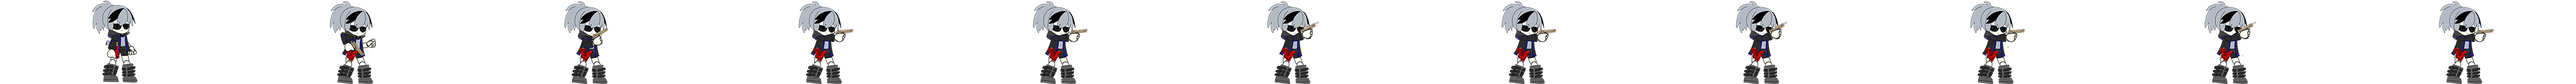
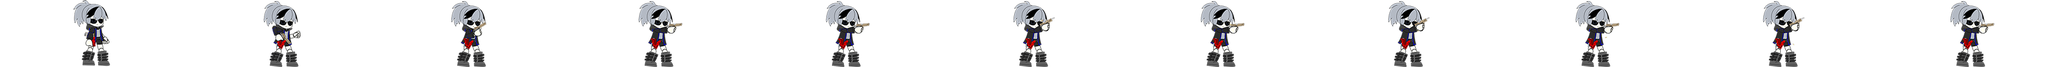
anm_finish

diff --git a/GAM200_TeamExodia_openGL/Game/Transform.h b/GAM200_TeamExodia_openGL/Game/Transform.h
@@ -40,7 +40,14 @@ class Transform_2 : public TransformUnit
 public:
     Transform_2(Math::vec2 position = Map::middle_point) : TransformUnit(10.0, 5.0, 0.8, 1.2, 4, position)
     {
-        AddGOComponent(new GAM200::Sprite("assets/tower_s2/animation/gunner_default.spt", (this)));
+        if (transformed == false)
+        {
+            AddGOComponent(new GAM200::Sprite("assets/tower_s2/animation/deform_default/deform_default.spt", (this)));
+        }
+        else
+        {
+            AddGOComponent(new GAM200::Sprite("assets/tower_s2/animation/deform/deform.spt", (this)));
+        }
         current_state = &state_none;
         current_state->Enter(this);
 
@@ -81,7 +88,14 @@ class Transform_4 : public TransformUnit
 public:
     Transform_4(Math::vec2 position = Map::middle_point) : TransformUnit(10.0, 5.0, 1.2, 1.5, 10, position)
     {
-        AddGOComponent(new GAM200::Sprite("assets/tower_s2/animation/gunner_default.spt", (this)));
+        if (transformed == false)
+        {
+            AddGOComponent(new GAM200::Sprite("assets/tower_s2/animation/deform_default/deform_default.spt", (this)));
+        }
+        else
+        {
+            AddGOComponent(new GAM200::Sprite("assets/tower_s2/animation/deform/deform.spt", (this)));
+        }
         current_state = &state_none;
         current_state->Enter(this);
 
@@ -122,7 +136,14 @@ class Transform_8 : public TransformUnit
 public:
     Transform_8(Math::vec2 position = Map::middle_point) : TransformUnit(10.0, 5.0, 1.2, 1.5, 30, position)
     {
-        AddGOComponent(new GAM200::Sprite("assets/tower_s2/animation/gunner_default.spt", (this)));
+        if (transformed == false)
+        {
+            AddGOComponent(new GAM200::Sprite("assets/tower_s2/animation/deform_default/deform_default.spt", (this)));
+        }
+        else
+        {
+            AddGOComponent(new GAM200::Sprite("assets/tower_s2/animation/deform/deform.spt", (this)));
+        }
         current_state = &state_none;
         current_state->Enter(this);
 
@@ -163,7 +184,14 @@ class Transform_16 : public TransformUnit
 public:
     Transform_16(Math::vec2 position = Map::middle_point) : TransformUnit(10.0, 5.0, 1.0, 1.4, 70, position)
     {
-        AddGOComponent(new GAM200::Sprite("assets/tower_s2/animation/gunner_default.spt", (this)));
+        if (transformed == false)
+        {
+            AddGOComponent(new GAM200::Sprite("assets/tower_s2/animation/deform_default/deform_default.spt", (this)));
+        }
+        else
+        {
+            AddGOComponent(new GAM200::Sprite("assets/tower_s2/animation/deform/deform.spt", (this)));
+        }
         current_state = &state_none;
         current_state->Enter(this);
 

diff --git a/GAM200_TeamExodia_openGL/Game/MeleeUnit.h b/GAM200_TeamExodia_openGL/Game/MeleeUnit.h
@@ -40,7 +40,7 @@ class Sword_1 : public MeleeUnit
 public:
     Sword_1(Math::vec2 position = Map::middle_point) : MeleeUnit(1.0, 5, position) 
     {
-        AddGOComponent(new GAM200::Sprite("assets/tower_s2/animation/gunner_default.spt", (this)));
+        AddGOComponent(new GAM200::Sprite("assets/tower_s2/animation/sword/sword_default.spt", (this)));
         current_state = &state_none;
         current_state->Enter(this);
 
@@ -82,7 +82,7 @@ class Sword_2 : public MeleeUnit
 public:
     Sword_2(Math::vec2 position = Map::middle_point) : MeleeUnit(1.0, 10, position)
     {
-        AddGOComponent(new GAM200::Sprite("assets/tower_s2/animation/gunner_default.spt", (this)));
+        AddGOComponent(new GAM200::Sprite("assets/tower_s2/animation/sword/sword_default.spt", (this)));
         current_state = &state_none;
         current_state->Enter(this);
 
@@ -124,7 +124,7 @@ class Sword_4 : public MeleeUnit
 public:
     Sword_4(Math::vec2 position = Map::middle_point) : MeleeUnit(1.0, 25, position)
     {
-        AddGOComponent(new GAM200::Sprite("assets/tower_s2/animation/gunner_default.spt", (this)));
+        AddGOComponent(new GAM200::Sprite("assets/tower_s2/animation/sword/sword_default.spt", (this)));
         current_state = &state_none;
         current_state->Enter(this);
 
@@ -166,7 +166,7 @@ class Sword_8 : public MeleeUnit
 public:
     Sword_8(Math::vec2 position = Map::middle_point) : MeleeUnit(0.8, 60, position)
     {
-        AddGOComponent(new GAM200::Sprite("assets/tower_s2/animation/gunner_default.spt", (this)));
+        AddGOComponent(new GAM200::Sprite("assets/tower_s2/animation/sword/sword_default.spt", (this)));
         current_state = &state_none;
         current_state->Enter(this);
 
@@ -208,7 +208,7 @@ class Sword_16 : public MeleeUnit
 public:
     Sword_16(Math::vec2 position = Map::middle_point) : MeleeUnit(0.7, 200, position)
     {
-        AddGOComponent(new GAM200::Sprite("assets/tower_s2/animation/gunner_default.spt", (this)));
+        AddGOComponent(new GAM200::Sprite("assets/tower_s2/animation/sword/sword_default.spt", (this)));
         current_state = &state_none;
         current_state->Enter(this);
 

diff --git a/GAM200_TeamExodia_openGL/Game/MagicUnit.h b/GAM200_TeamExodia_openGL/Game/MagicUnit.h
@@ -40,7 +40,7 @@ class Bomb_1 : public MagicUnit
 public:
     Bomb_1(Math::vec2 position = Map::middle_point) : MagicUnit(1.5, 4, position) 
     {
-        AddGOComponent(new GAM200::Sprite("assets/tower_s2/animation/gunner_default.spt", (this)));
+        AddGOComponent(new GAM200::Sprite("assets/tower_s2/animation/bomb/bomb_default.spt", (this)));
         current_state = &state_none;
         current_state->Enter(this);
 
@@ -82,7 +82,7 @@ class Bomb_2 : public MagicUnit
 public:
     Bomb_2(Math::vec2 position = Map::middle_point) : MagicUnit(1.0, 4, position)
     {
-        AddGOComponent(new GAM200::Sprite("assets/tower_s2/animation/gunner_default.spt", (this)));
+        AddGOComponent(new GAM200::Sprite("assets/tower_s2/animation/bomb/bomb_default.spt", (this)));
         current_state = &state_none;
         current_state->Enter(this);
 
@@ -124,7 +124,7 @@ class Bomb_4 : public MagicUnit
 public:
     Bomb_4(Math::vec2 position = Map::middle_point) : MagicUnit(1.5, 10, position)
     {
-        AddGOComponent(new GAM200::Sprite("assets/tower_s2/animation/gunner_default.spt", (this)));
+        AddGOComponent(new GAM200::Sprite("assets/tower_s2/animation/bomb/bomb_default.spt", (this)));
         current_state = &state_none;
         current_state->Enter(this);
 
@@ -166,7 +166,7 @@ class Bomb_8 : public MagicUnit
 public:
     Bomb_8(Math::vec2 position = Map::middle_point) : MagicUnit(1.0, 30, position)
     {
-        AddGOComponent(new GAM200::Sprite("assets/tower_s2/animation/gunner_default.spt", (this)));
+        AddGOComponent(new GAM200::Sprite("assets/tower_s2/animation/bomb/bomb_default.spt", (this)));
         current_state = &state_none;
         current_state->Enter(this);
 
@@ -208,7 +208,7 @@ class Bomb_16 : public MagicUnit
 public:
     Bomb_16(Math::vec2 position = Map::middle_point) : MagicUnit(0.8, 100, position)
     {
-        AddGOComponent(new GAM200::Sprite("assets/tower_s2/animation/gunner_default.spt", (this)));
+        AddGOComponent(new GAM200::Sprite("assets/tower_s2/animation/bomb/bomb_default.spt", (this)));
         current_state = &state_none;
         current_state->Enter(this);
 

diff --git a/GAM200_TeamExodia_openGL/Game/Sniper.h b/GAM200_TeamExodia_openGL/Game/Sniper.h
@@ -32,7 +32,7 @@ class Sniper_2 : public SniperUnit
 public:
     Sniper_2(Math::vec2 position = Map::middle_point) : SniperUnit(5.0, 50, position)
     {
-        AddGOComponent(new GAM200::Sprite("assets/tower_s2/animation/gunner_default.spt", (this)));
+        AddGOComponent(new GAM200::Sprite("assets/tower_s2/animation/sniper/sniper_default.spt", (this)));
         current_state = &state_none;
         current_state->Enter(this);
 
@@ -73,7 +73,7 @@ class Sniper_4 : public SniperUnit
 public:
     Sniper_4(Math::vec2 position = Map::middle_point) : SniperUnit(4.0, 50, position)
     {
-        AddGOComponent(new GAM200::Sprite("assets/tower_s2/animation/gunner_default.spt", (this)));
+        AddGOComponent(new GAM200::Sprite("assets/tower_s2/animation/sniper/sniper_default.spt", (this)));
         current_state = &state_none;
         current_state->Enter(this);
 
@@ -114,7 +114,7 @@ class Sniper_8 : public SniperUnit
 public:
     Sniper_8(Math::vec2 position = Map::middle_point) : SniperUnit(4.0, 100, position)
     {
-        AddGOComponent(new GAM200::Sprite("assets/tower_s2/animation/gunner_default.spt", (this)));
+        AddGOComponent(new GAM200::Sprite("assets/tower_s2/animation/sniper/sniper_default.spt", (this)));
         current_state = &state_none;
         current_state->Enter(this);
 
@@ -155,7 +155,7 @@ class Sniper_16 : public SniperUnit
 public:
     Sniper_16(Math::vec2 position = Map::middle_point) : SniperUnit(4.0, 300, position)
     {
-        AddGOComponent(new GAM200::Sprite("assets/tower_s2/animation/gunner_default.spt", (this)));
+        AddGOComponent(new GAM200::Sprite("assets/tower_s2/animation/sniper/sniper_default.spt", (this)));
         current_state = &state_none;
         current_state->Enter(this);
 

diff --git a/GAM200_TeamExodia_openGL/Game/Spear.h b/GAM200_TeamExodia_openGL/Game/Spear.h
@@ -36,7 +36,7 @@ class Spear_2 : public SpearUnit
 public:
     Spear_2(Math::vec2 position = Map::middle_point) : SpearUnit(1.2, 2, position) 
     {
-        AddGOComponent(new GAM200::Sprite("assets/tower_s2/animation/gunner_default.spt", (this)));
+        AddGOComponent(new GAM200::Sprite("assets/tower_s2/animation/spear/spear_default.spt", (this)));
         current_state = &state_none;
         current_state->Enter(this);
 
@@ -77,7 +77,7 @@ class Spear_4 : public SpearUnit
 public:
     Spear_4(Math::vec2 position = Map::middle_point) : SpearUnit(1.2, 5, position)
     {
-        AddGOComponent(new GAM200::Sprite("assets/tower_s2/animation/gunner_default.spt", (this)));
+        AddGOComponent(new GAM200::Sprite("assets/tower_s2/animation/spear/spear_default.spt", (this)));
         current_state = &state_none;
         current_state->Enter(this);
 
@@ -118,7 +118,7 @@ class Spear_8 : public SpearUnit
 public:
     Spear_8(Math::vec2 position = Map::middle_point) : SpearUnit(1.0, 15, position)
     {
-        AddGOComponent(new GAM200::Sprite("assets/tower_s2/animation/gunner_default.spt", (this)));
+        AddGOComponent(new GAM200::Sprite("assets/tower_s2/animation/spear/spear_default.spt", (this)));
         current_state = &state_none;
         current_state->Enter(this);
 
@@ -159,7 +159,7 @@ class Spear_16 : public SpearUnit
 public:
     Spear_16(Math::vec2 position = Map::middle_point) : SpearUnit(1.0, 50, position)
     {
-        AddGOComponent(new GAM200::Sprite("assets/tower_s2/animation/gunner_default.spt", (this)));
+        AddGOComponent(new GAM200::Sprite("assets/tower_s2/animation/spear/spear_default.spt", (this)));
         current_state = &state_none;
         current_state->Enter(this);
 
